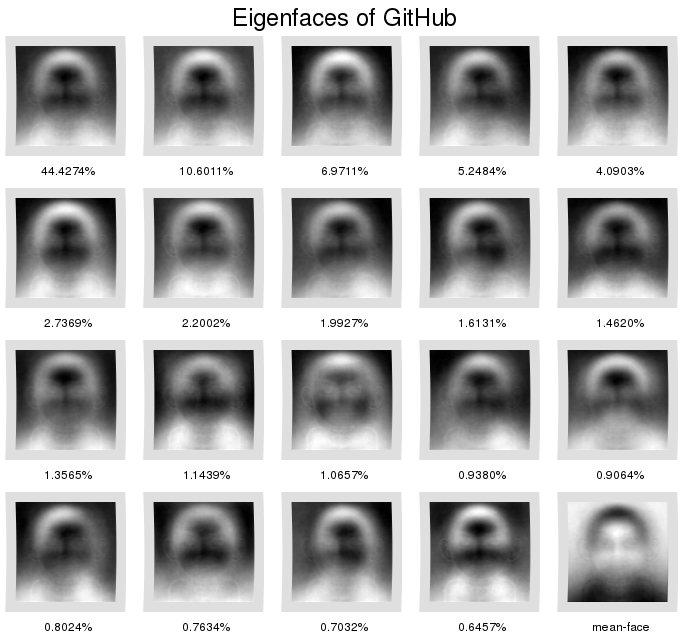
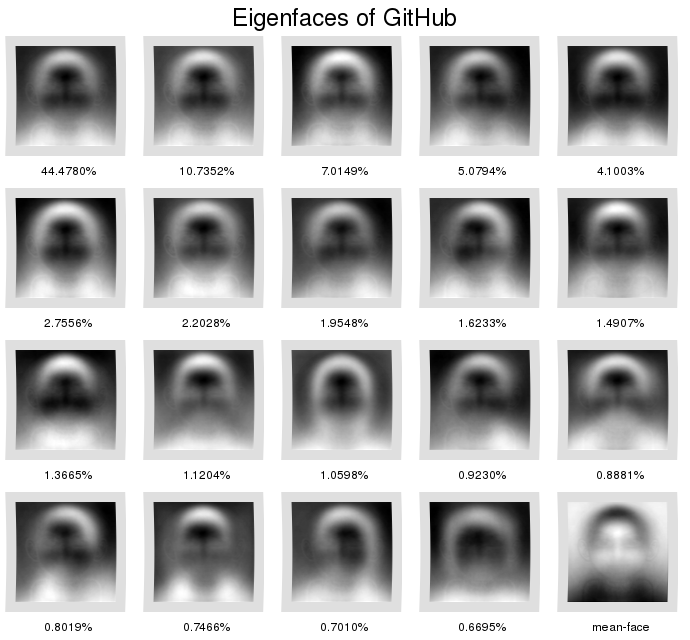
Re-generate eigenfaces using full data-set

diff --git a/ReadMe.md b/ReadMe.md
@@ -124,14 +124,7 @@ explained by the principal component corresponding to the eigenface.
 
 We downloaded 54936 avatars in total for our experiments. 28255 (51%) of these
 avatars were auto-generated and thus filtered out, leaving 26681 avatars left
-over. Due to computing equipment constraints, we unfortunately had to reduce
-this data-set further: we used a random selection of 8000 avatars from our
-data-set to create the final eigenface decomposition visualization. (Doing
-data-science on a Samsung Chromebook... It's not fun.) However, the eigenfaces
-our approach managed to infer looked fairly stable past a data-set size of about
-1000 avatars, so we are confident that the results we present in the
-visualization above are representative of the entire population of GitHub
-user-avatars.
+over.
 
 ## Dependencies
 
